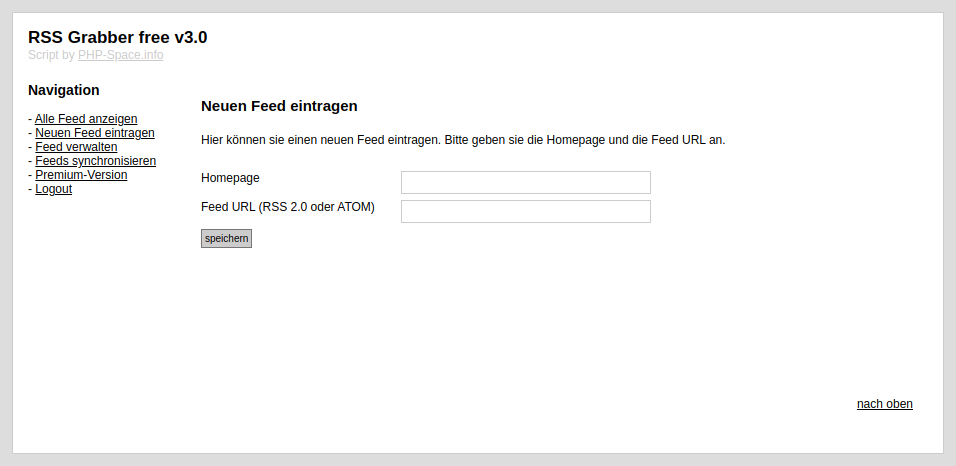
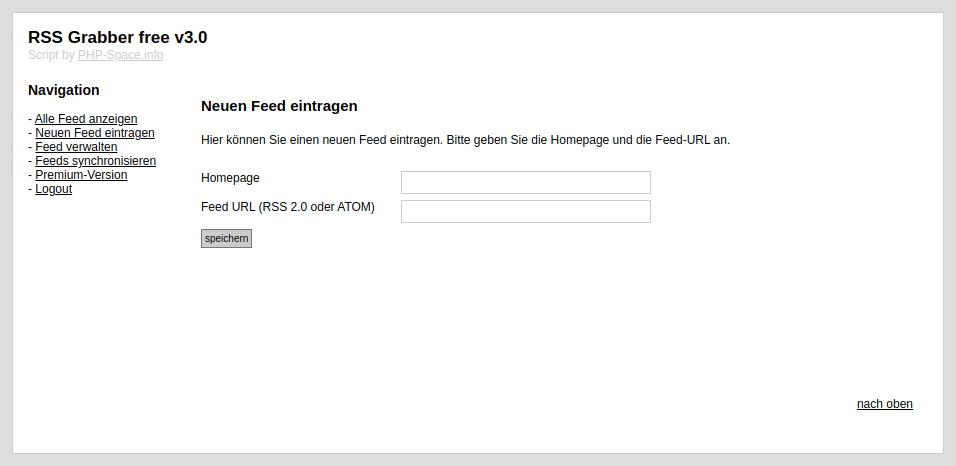
Screenshots: doppelte Pixeldichte für die Produktseite, aktuelle Texte
build/screenshots.mjs kennt zwei optionale Umgebungsvariablen:
SKALIERUNG setzt die Pixeldichte der Aufnahme, ZIEL einen anderen
Ablageort. Die Produktseite zeigt Vollbilder mit 1200 Pixeln Breite, der
Inhaltsbereich ist aber nur rund 950 Pixel breit - hochgerechnet wurde die
Schrift unscharf. Mit SKALIERUNG=2 bleibt das Herunterrechnen scharf, und
ZIEL hält solche Aufnahmen aus den Screenshots im Repository heraus.

Die Screenshots im Repository zeigen jetzt die korrigierten Formulartexte
und die Navigation mit dem Punkt Anmelden.

In SPECS-RELEASE-3.0.md ist vermerkt, dass das Bildschema B2 durch das
Muster der Forum-Seite abgelöst ist.

Das Release-Paket ist unverändert: Weder Screenshots noch build/ gehören
hinein. Der Tag bleibt deshalb auf dem Stand, aus dem das Paket gebaut ist.

Changed region(s): [[0.273, 0.2704, 0.7584, 0.3305]]

diff --git a/docs/SPECS-RELEASE-3.0.md b/docs/SPECS-RELEASE-3.0.md
@@ -45,6 +45,12 @@ Version 2.0 von 2022.
   unter `img/` von php-space.info nach dem Namensschema
   `<thema>_rss_grabber_3.0(_t).jpg`.
 
+  *Abgelöst am 22.09.2026:* Die Produktseite folgt jetzt dem Muster von
+  `/simple-php-forum/` – PNG, Vollbild 1200 px breit, Vorschau 280 px breit
+  mit natürlicher Höhe, abgelegt unter `rss-grabber/bilder/` und
+  `rss-grabber/bilder/tn/tn_*`, Anzeige in einer Lightbox. Aufgenommen mit
+  `SKALIERUNG=2` (`build/screenshots.mjs`), damit das Vollbild scharf bleibt.
+
 ### C – Installationsanleitung
 
 - **C1** Die Anleitung ist bebildert: Installationsformular, Anmeldung,
